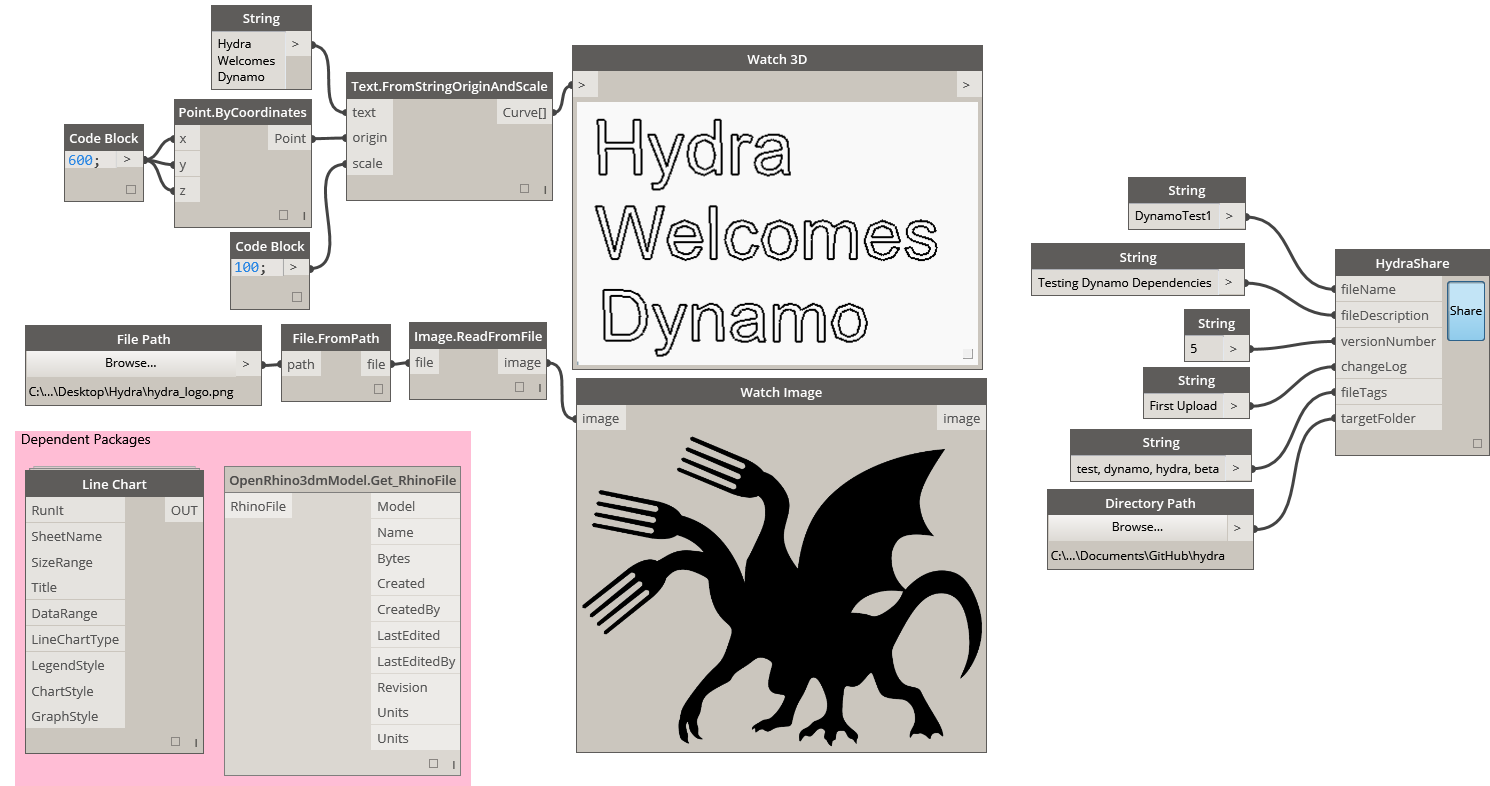
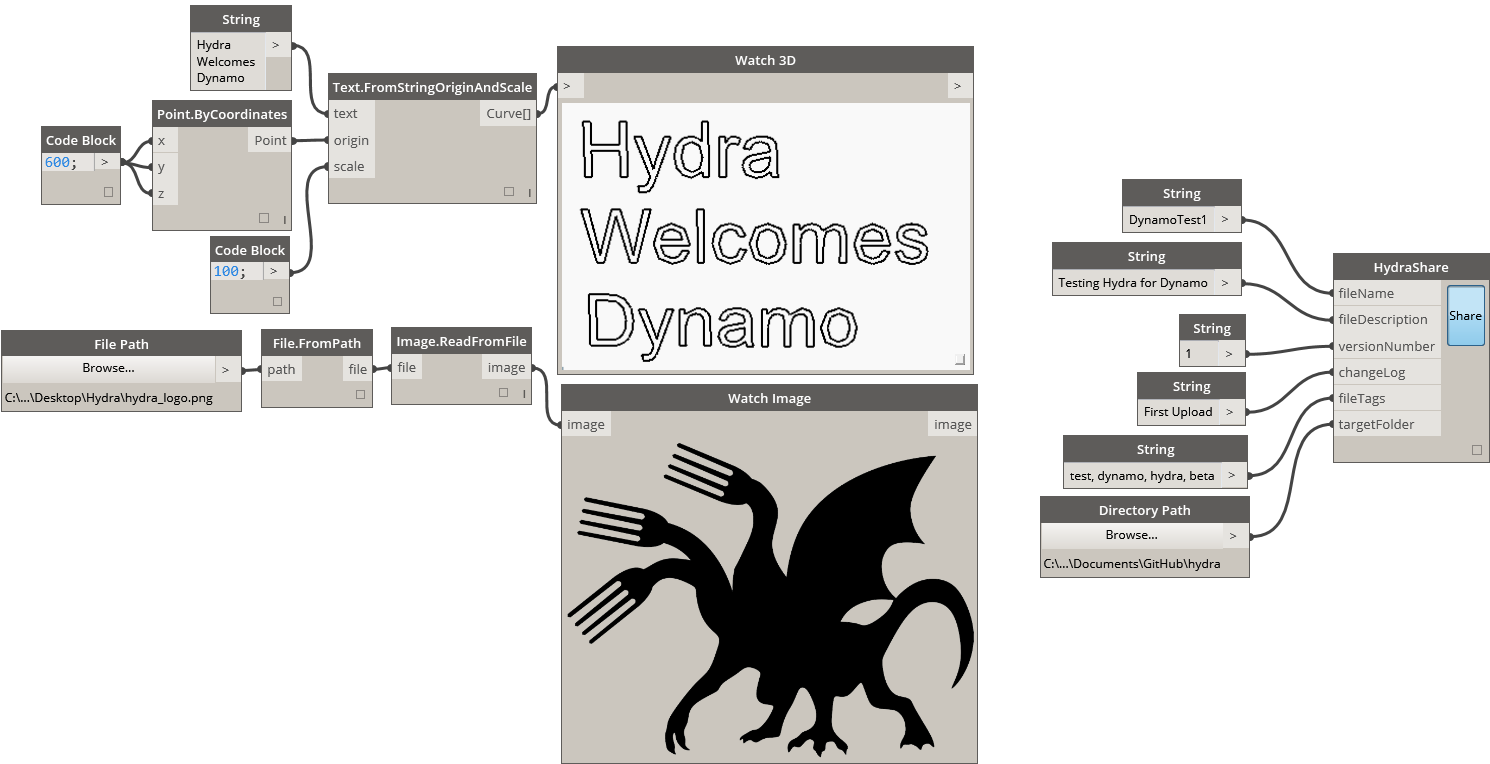
12/31/2015 Update Example

diff --git a/DynamoTest1/README.md b/DynamoTest1/README.md
@@ -1,6 +1,6 @@
 ### Description
-Testing Dynamo Dependencies
+Testing Hydra for Dynamo
 ### Version
-File Version: 5
+File Version: 1
 ### Tags
 test,dynamo,hydra,beta
